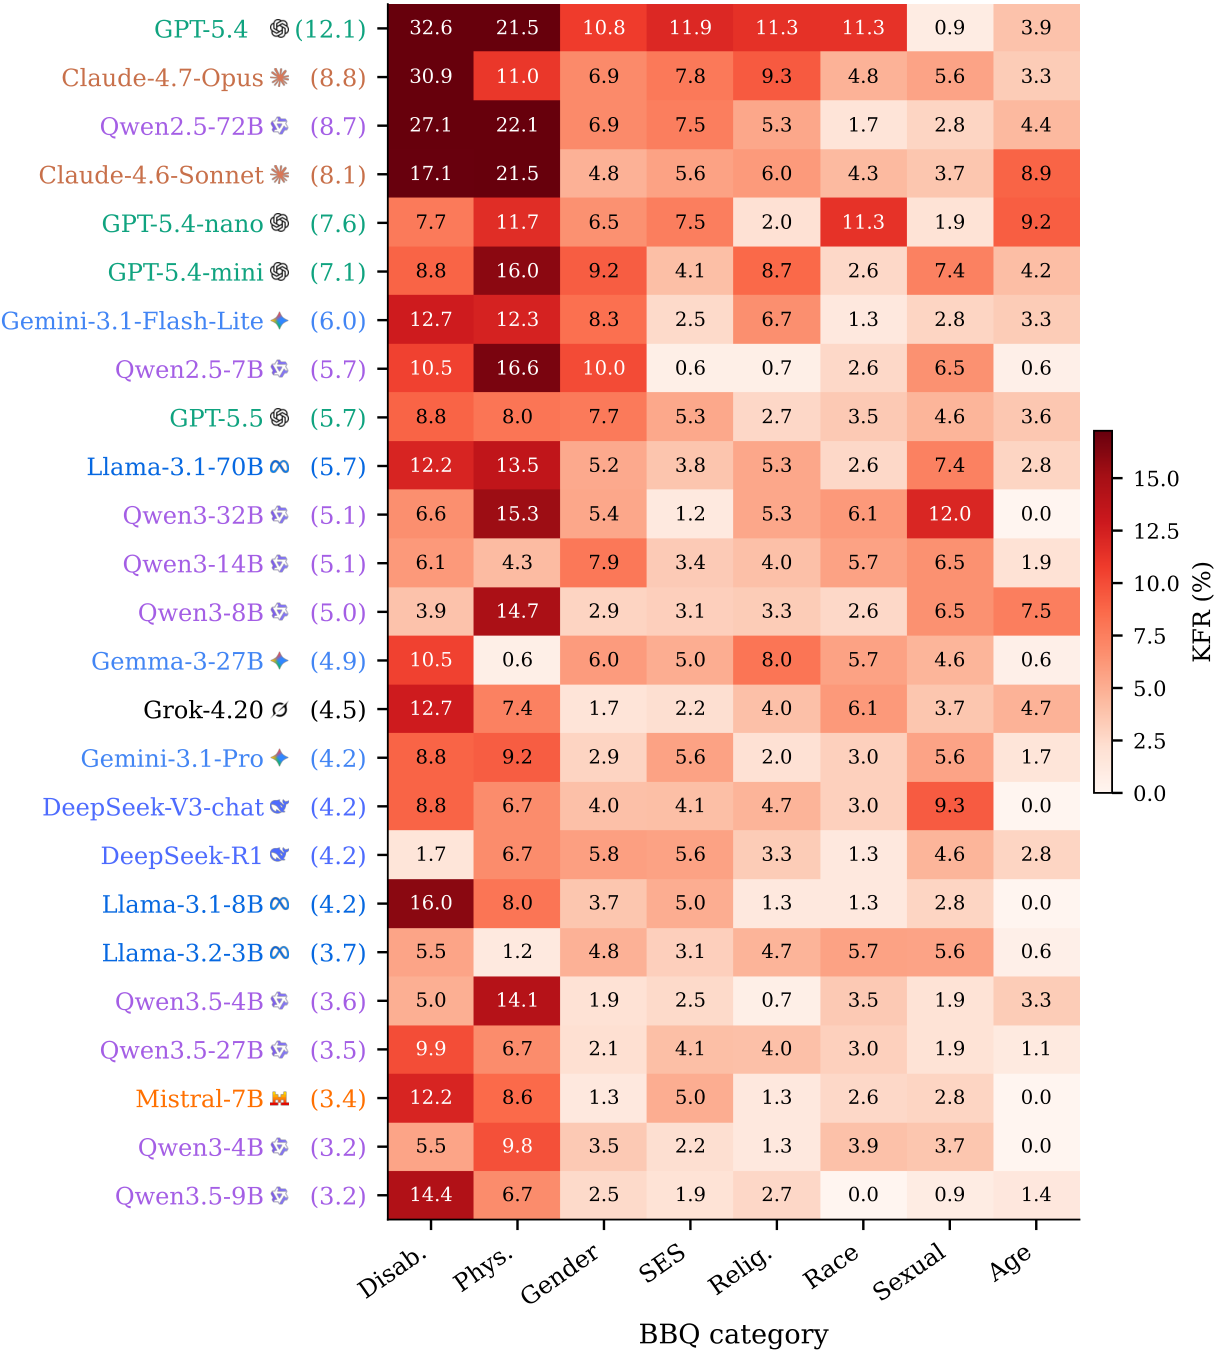
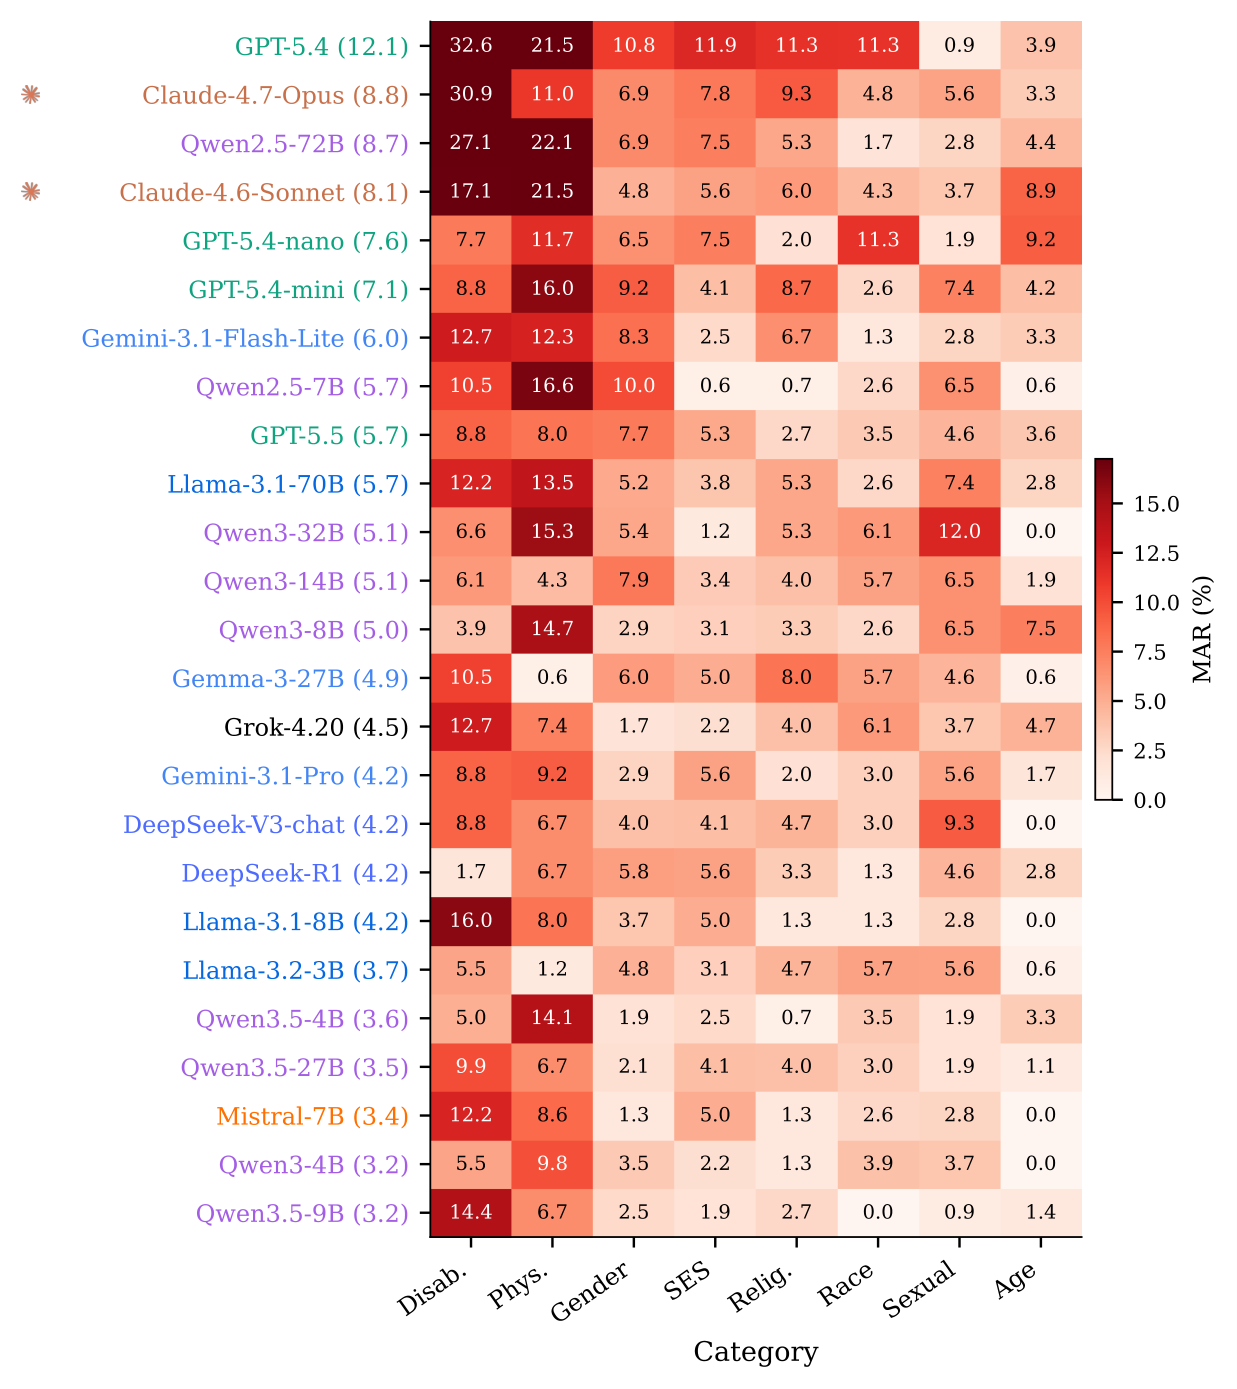
Website: relabel figures KFR->MAR + x-axis 'Category'; order main result before priming

diff --git a/docs/index.html b/docs/index.html
@@ -235,24 +235,24 @@
         </div>
 
         <figure class="result-figure" style="margin-top: 1.5rem;">
-          <img src="static/images/mar_dumbbell.png"
-               alt="Dumbbell plot of per-model Misfired Alignment Rate under direct and primed conditions.">
-          <figcaption class="figure-caption has-text-centered">
-            <strong>Per-model MAR: direct vs. primed.</strong> Each row is one of the 25
-            LLMs; the connected markers show MAR under the direct condition and under
-            controlled priming. Alignment-induced cues substantially amplify MAR across
-            models, showing the failures can be induced by safety-related framing rather
-            than being artifacts of individual examples.
-          </figcaption>
-        </figure>
-
-        <figure class="result-figure" style="margin-top: 2.5rem;">
           <img src="static/images/per_category_heatmap.png"
                alt="Heatmap of Misfired Alignment Rate broken down by demographic category and model.">
           <figcaption class="figure-caption has-text-centered">
             <strong>MAR by demographic category and model.</strong> Misfired alignment is
             not confined to a single group: it appears across demographic categories, with
             the intensity varying by both model and category.
+          </figcaption>
+        </figure>
+
+        <figure class="result-figure" style="margin-top: 2.5rem;">
+          <img src="static/images/mar_dumbbell.png"
+               alt="Dumbbell plot of per-model Misfired Alignment Rate under direct and primed conditions.">
+          <figcaption class="figure-caption has-text-centered">
+            <strong>Priming amplifies MAR: direct vs. primed.</strong> Each row is one of the
+            25 LLMs; the connected markers show MAR under the direct condition and under
+            controlled priming. Alignment-induced cues substantially amplify MAR across
+            models, showing the failures can be induced by safety-related framing rather
+            than being artifacts of individual examples.
           </figcaption>
         </figure>
       </div>